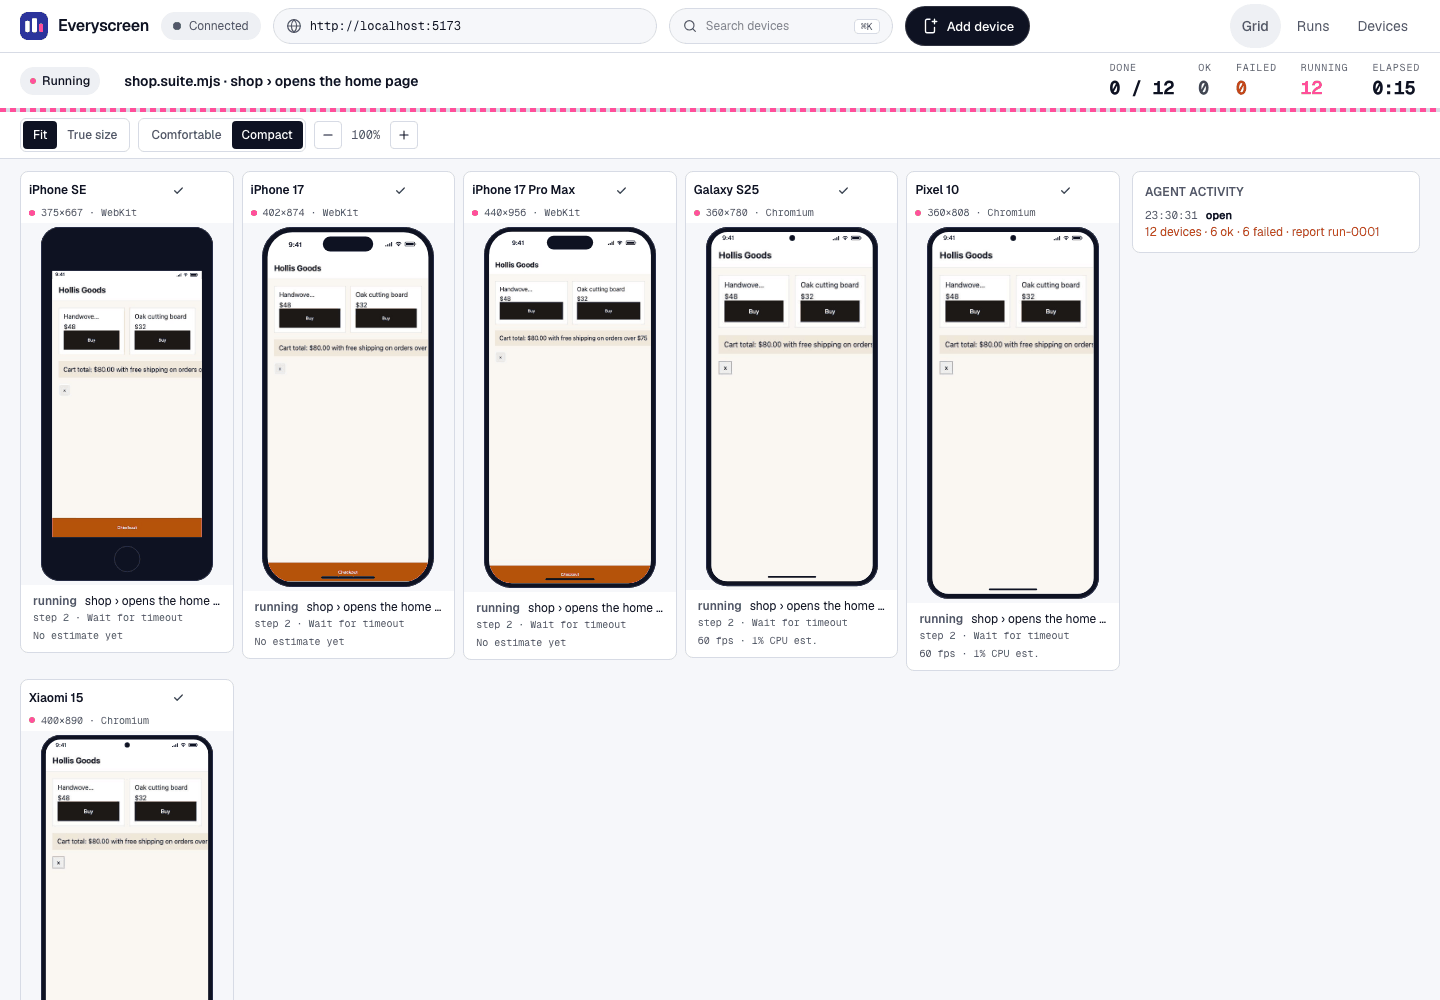
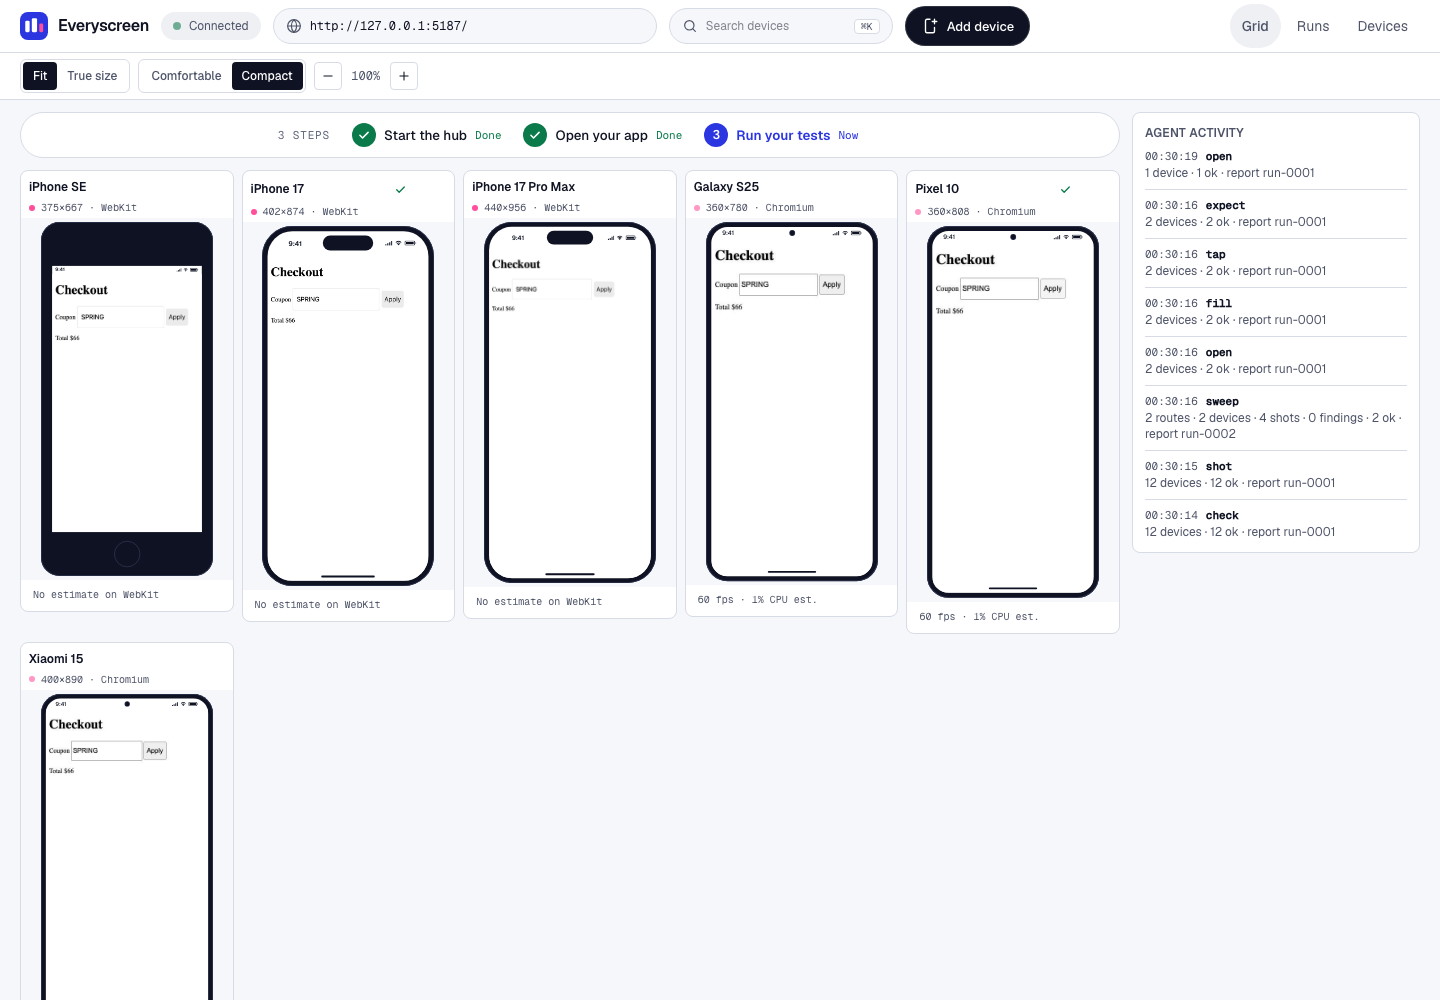
docs: match the README and repo docs to the merged CLI replies

diff --git a/README.md b/README.md
@@ -36,14 +36,21 @@ npx everyscreen stop
 In a terminal, each command prints one line:
 
 ```text
-13 devices · 13 ok · report run-0001
+12 devices · 12 ok · report run-0001
 ```
 
-When a device fails, the line counts it and the next lines name it:
+A `warn` finding is counted in its own column and does not fail the device. A device that has a `failed` finding, or a step that times out, is counted as failed and its line names the device:
 
 ```text
-1 device · 0 ok · 1 failed · report run-0001
-iphone-se  failed  locator.waitFor: Timeout 10000ms exceeded.  10004 ms
+12 devices · 3 ok · 9 warn · report run-0001
+1 device · 0 ok · 1 failed · report run-0003
+iphone-17  failed  locator.waitFor: Timeout 10000ms exceeded.  10006 ms
+```
+
+A wrong or missing flag prints one `bad usage` line that names what to pass, and exits with code 2:
+
+```text
+bad usage · open needs --url <web address, like https://example.com>
 ```
 
 When you pipe the output or pass `--json`, the command prints one JSON object with `status`, `line`, `runId` and `failures`, and never asks a question. Exit codes: `0` ok, `1` failed, `2` bad usage.
@@ -71,7 +78,7 @@ Every command takes `--json` and `--help`. `--device <id>` runs a command on one
 | `everyscreen tap --role <role> --name <name>`                      | Tap an element by its ARIA role and accessible name          |
 | `everyscreen fill --role <role> --name <name> --with <text>`       | Type into a field                                            |
 | `everyscreen scroll --to top\|bottom`                              | Scroll to the top or the bottom of the page                  |
-| `everyscreen check`                                                | Run the built-in checks on the current page                  |
+| `everyscreen check`                                                | Run the six checks on the current page                       |
 | `everyscreen shot`                                                 | Save a screenshot of every device                            |
 | `everyscreen expect --text <text>`                                 | Check that some text shows on every device                   |
 | `everyscreen sweep --url <url>`                                    | Visit the routes of your app and save a shot on every device |
@@ -83,7 +90,7 @@ Every command takes `--json` and `--help`. `--device <id>` runs a command on one
 
 Role values for `tap` and `fill` are ARIA roles, for example `button`, `link`, `textbox`, `checkbox` or `tab`.
 
-Each command measures the page after it acts. A finding fails that command, so a page with horizontal overflow fails `open`, `tap`, `expect` and `shot` as well as `check`.
+Each command measures the page after it acts. A `failed` finding fails that command, so a page with horizontal overflow fails `open`, `tap`, `expect` and `shot` as well as `check`. A `warn` finding is counted in the reply and does not fail it.
 
 ## Flows
 
@@ -91,7 +98,7 @@ A flow is a YAML file in `flows/` that lists the steps and the devices to run th
 
 ```yaml
 name: Checkout with a coupon
-devices: [iphone-se, pixel-10]
+devices: [iphone-17, pixel-10]
 steps:
   - open: http://localhost:3000/checkout
   - fill: { role: textbox, name: Coupon, with: SPRING }
@@ -116,27 +123,27 @@ Each device a flow names must be running in the hub. Leave `devices` out, or set
 `sweep` starts at one url, follows the links it finds, and saves a screenshot on every device for each route, up to `--max-routes` (default 50, up to 500):
 
 ```sh
-npx everyscreen sweep --url http://localhost:3000 --devices iphone-se,pixel-10 --max-routes 10
+npx everyscreen sweep --url http://localhost:3000 --devices iphone-17,pixel-10 --max-routes 10
 ```
 
 ```text
-3 routes · 2 devices · 6 shots · 10 findings · 2 failed · report run-0002
+2 routes · 2 devices · 4 shots · 0 findings · 2 ok · report run-0002
 ```
 
-Use `--devices all` to sweep all 60 catalog devices. Use `--before <flow.yaml>` to run a flow first on each device, for example a login. Routes you list in `routes` in `everyscreen.yaml` are visited too. Screenshots go to `.everyscreen/shots/`.
+The line adds `warn` and `failed` counts when a route has findings of that kind. Use `--devices all` to sweep all 60 catalog devices. Use `--before <flow.yaml>` to run a flow first on each device, for example a login. Routes you list in `routes` in `everyscreen.yaml` are visited too. Screenshots go to `.everyscreen/shots/`.
 
 ## Checks
 
 Every command runs these checks on the page after it acts:
 
-- `overflow`: an element runs past the edge of the screen
-- `clipped-text`: text is cut off by its box
-- `safe-area`: an element sits under the notch or the home bar
-- `tap-target`: a tap target is smaller than the minimum tap size
-- `console-error`: the page writes an error to the browser console
-- `failed-request`: a network request fails
+- `overflow` (failed): an element runs past the edge of the screen
+- `clipped-text` (warn): text is cut off by its box
+- `safe-area` (warn): an element sits under the notch or the home bar
+- `tap-target` (warn): a tap target is smaller than the minimum tap size
+- `console-error` (failed): the page writes an error to the browser console
+- `failed-request` (failed): a network request fails
 
-Each finding names the device and the element, and a failed command keeps a screenshot path in its `failures`.
+Each finding names the device and the element. A device with a failed finding is listed in `failures` with its shot path.
 
 ## Devices
 
@@ -145,14 +152,24 @@ The grid shows 12 devices by default: `iphone-se`, `iphone-17`, `iphone-17-pro-m
 Add your own device to `everyscreen.yaml`:
 
 ```sh
-npx everyscreen devices add --name "Tablet test" --width 900 --height 1200 --pixel-ratio 2 --touch
+npx everyscreen devices add --name "Lobby kiosk" --width 900 --height 1200
 ```
 
 ```text
-device added · tablet-test · restart the hub to apply
+device added · lobby-kiosk
 ```
 
-Restart the hub after you add or remove a device. `devices remove` asks before it changes the file, and needs `--yes` when no terminal is attached.
+The new device joins the running grid at once, so `open --device lobby-kiosk` works right away. Remove it the same way:
+
+```sh
+npx everyscreen devices remove --device lobby-kiosk --yes
+```
+
+```text
+device removed · lobby-kiosk
+```
+
+`devices remove` asks before it changes the file, and needs `--yes` when no terminal is attached.
 
 The built-in catalog has Chromium and WebKit devices only. A custom device can set `browserName: firefox` in `everyscreen.yaml`, but Firefox is not tested here.
 
@@ -162,15 +179,13 @@ The built-in catalog has Chromium and WebKit devices only. A custom device can s
 
 ```yaml
 devices:
-  - name: Tablet test
+  - name: Lobby kiosk
     width: 900
     height: 1200
-    pixelRatio: 2
-    hasTouch: true
 routes:
   - /checkout
 grid:
-  - iphone-se
+  - iphone-17
   - pixel-10
 ```
 

diff --git a/AGENTS.md b/AGENTS.md
@@ -36,6 +36,8 @@
 
 ## Release
 
+The very first npm publish is manual: `npm publish --access public`, then `npm trust github everyscreen --file publish.yml --repository YosefHayim/everyscreen --allow-publish`. After that, tags publish through `publish.yml`.
+
 1. Bump `version` in `package.json` in a pull request.
 2. After it merges, tag the commit: `git tag v0.1.0` and `git push origin v0.1.0`.
 3. `.github/workflows/publish.yml` runs on tags `v*.*.*`. It sets the version from the tag, runs typecheck, test and build, then publishes with provenance.

diff --git a/LANGUAGE.md b/LANGUAGE.md
@@ -32,7 +32,7 @@ _Avoid_: session, job
 **Check**: one of the six built-in measurements of a page: `overflow`, `clipped-text`, `safe-area`, `tap-target`, `console-error` and `failed-request`.
 _Avoid_: lint, audit
 
-**Finding**: one problem a check reports on a page for one device.
+**Finding**: one problem a check reports on a page for one device, with severity `warn` or `failed`. Only a `failed` finding fails a command.
 _Avoid_: issue, warning, violation
 
 **Failure**: a device that failed a command, with its message and shot path.

diff --git a/PROJECT.md b/PROJECT.md
@@ -34,5 +34,5 @@ Keep one local hub, one browser per device and one line per command. Add devices
 
 - Replies are short and plain, so an agent can read them without help.
 - Every command runs on every device unless the developer names one.
-- A finding fails the command that found it.
+- A `failed` finding fails the command that found it. A `warn` finding is counted in the reply and does not fail it.
 - Everything runs on the developer's machine.
